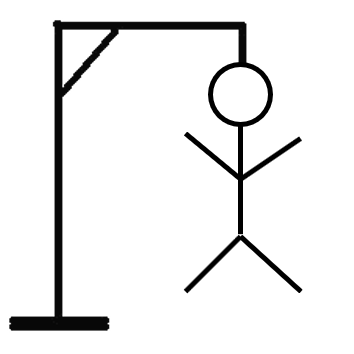
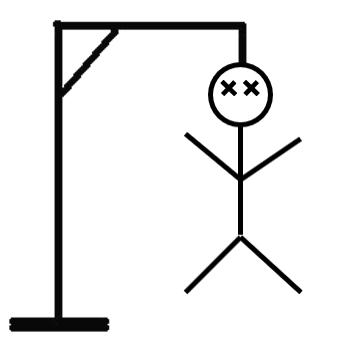
final solution pre-design

diff --git a/assets/javascript/game.js b/assets/javascript/game.js
@@ -8,6 +8,32 @@ console.log(lengthOfWord);
 var blankWord = [];
 var keyName;
 var letterIndex;
+var letterInWord;
+var missedLetters = [];
+var wins = 0;
+var lose = 0;
+var imageArray = ["assets/images/hangman.gif", "assets/images/hangman-head.png","assets/images/hangman-body.png", "assets/images/hangman-arm.png",
+"assets/images/hangman-arms.png","assets/images/hangman-leg.png", "assets/images/hangman-dead.png"];
+
+function resetGame() {
+    randomNumber = Math.floor(Math.random() * 20);
+    selection = foods[randomNumber];
+    console.log(selection);
+    lengthOfWord = selection.length;
+    missedLetters = [];
+    blankWord = [];
+    document.getElementById('picture').src = "assets/images/hangman.gif";   
+    for (var i = 0; i < lengthOfWord; i++) {
+        blankWord[i] = '_';
+    } 
+    document.getElementById('reset-button').style.display = "none";
+document.getElementById('word').innerHTML = blankWord.join(" ");
+document.getElementById('wins').innerHTML = "Wins: " + wins;
+document.getElementById('lose').innerHTML = "Losses: " + lose;
+document.getElementById('missed-letters').innerHTML = missedLetters.join(" ");
+
+}
+
 
 // Setting array to be all underscores and creating a string to show with no letters
 
@@ -15,16 +41,51 @@ var letterIndex;
 for (var i = 0; i < lengthOfWord; i++) {
     blankWord[i] = '_';
 }
-document.getElementById('word').innerHTML = blankWord;
+document.getElementById('word').innerHTML = blankWord.join(" ");
+document.getElementById('wins').innerHTML = "Wins: " + wins;
+document.getElementById('lose').innerHTML = "Losses: " + lose;
+
+//Event listener for keystroke
 document.addEventListener('keypress', (event) => {
     keyName = event.key;
+    letterInWord = false;
+    if(missedLetters.indexOf(keyName) === -1 && blankWord.indexOf(keyName) === -1) {
     for (var i = 0; i < selection.length; i++) {
         if (selection[i] === keyName) {
             console.log('that is a letter in our word!');
             var letterIndex = selection.indexOf(keyName, i);
             console.log(letterIndex);
+            letterInWord = true;
             blankWord[letterIndex] = keyName;
         }
     }
-    document.getElementById('word').innerHTML = blankWord;
+    if (!letterInWord) {
+        console.log('This letter is not in the word');
+        missedLetters.push(keyName);
+        document.getElementById('picture').src = imageArray[missedLetters.length];
+    }
+} else {
+    console.log('you already used that letter');
+}
+    if (blankWord.join("") == selection) {
+        console.log('You Won!');
+        wins++;
+    }
+
+    if (missedLetters.length == 6) {
+        console.log('You lose');
+        lose++;
+        document.getElementById('final-word').innerHTML = selection;
+        
+
+    }
+
+    if (missedLetters.length == 6 || blankWord.join("") == selection) {
+        document.getElementById('reset-button').style.display = "block";
+    }
+        
+    document.getElementById('wins').innerHTML = "Wins: " + wins;
+    document.getElementById('missed-letters').innerHTML = missedLetters.join(" ");
+    document.getElementById('word').innerHTML = blankWord.join(" ");
+    document.getElementById('lose').innerHTML = "Losses: " + lose;
   });

diff --git a/index.html b/index.html
@@ -7,8 +7,18 @@
     <link rel="stylesheet" href="assets/css/style.css">
 </head>
 <body>
+    <div class="container">
     <h1>Hangman Game</h1>
+    <p>All About Food</p>
+</div>
     <h2 id="word"></h2>
+    <h2 id="final-word"></h2>
+    <h3 id="missed-letters"></h3>
+    <h3 id="wins"></h3>
+    <h3 id="lose"></h3>
+    <img id="picture" src="assets/images/hangman.gif" height="250px" width="250px">
+    <button id="reset-button" onclick="resetGame()">Reset</button>
+
     <script src="assets/javascript/game.js"></script>
 </body>
 </html>

diff --git a/assets/css/style.css b/assets/css/style.css
@@ -1,3 +1,18 @@
+body {
+    background-image: url("../images/background.jpg");
+    background-size:cover;
+    background-position-y: 30%;
+}
+.container {
+    background-color: rgba(0,0,0,.8);
+    padding:20px 50px;
+    color:white;
+    width:250px;
+    text-align:center;
+}
 #word {
     font-size:40px;
+}
+#reset-button {
+    display:none;
 }
